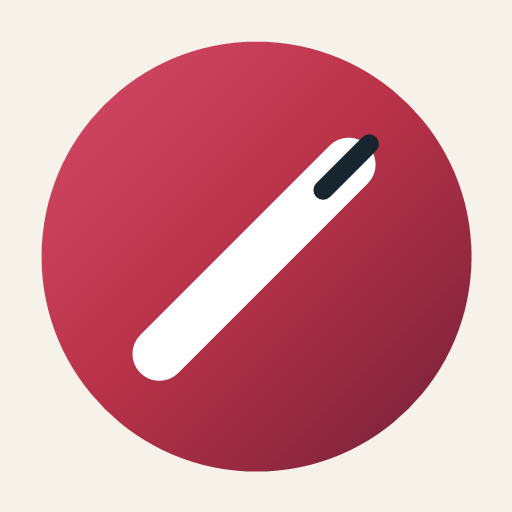
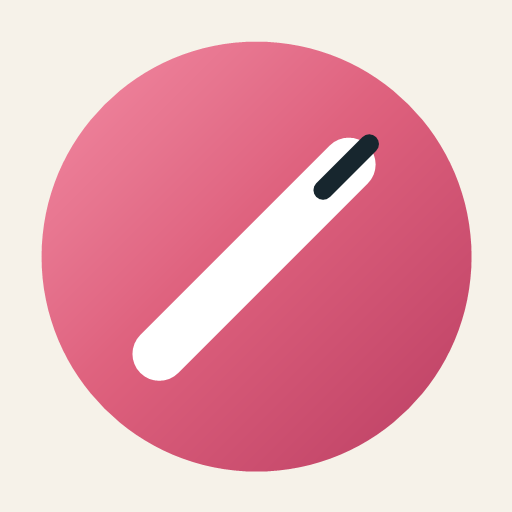
Add files via upload

diff --git a/app.css b/app.css
@@ -1,7 +1,7 @@
 :root{--ink:#17262e;--coral:#e8453c;--cream:#f6f2e9;--line:#d7dcd9;--muted:#6f7d82}*{box-sizing:border-box}html,body{margin:0;min-height:100%;font-family:Arial,sans-serif;color:var(--ink);background:var(--cream)}button,input{font:inherit}button{border:0;border-radius:10px;font-weight:700;color:inherit;cursor:pointer}header{height:72px;padding:0 24px;background:#fffdf8;border-bottom:1px solid var(--line);display:flex;align-items:center;justify-content:space-between}.brand{display:flex;align-items:center;gap:11px}.brand>b{width:40px;height:40px;border-radius:12px 12px 12px 4px;background:var(--coral);color:#fff;display:grid;place-items:center;font-size:20px}.brand span{display:flex;flex-direction:column}.brand small,.filebar small{display:block;color:var(--muted);margin-top:3px;font-size:11px}.head-actions,.file-actions{display:flex;gap:8px;align-items:center}.primary{background:var(--coral);color:#fff;padding:12px 16px}.install{background:#e4f2e9;color:#247652;padding:11px 14px}main{display:grid;grid-template-columns:210px 1fr;height:calc(100vh - 72px)}aside{background:#fffdf8;border-right:1px solid var(--line);padding:16px 12px;overflow:auto;display:flex;flex-direction:column;gap:16px}nav{display:grid;grid-template-columns:1fr 1fr;gap:7px}nav button{height:64px;background:#f0eee7;color:#59666b;font-size:10px;display:flex;flex-direction:column;align-items:center;justify-content:center;gap:4px}nav button b{font:24px Georgia}nav button.active{background:#fff0ec;color:var(--coral);outline:1px solid var(--coral)}aside section{border-top:1px solid #e2e5e2;padding-top:13px}aside label{font-size:12px;font-weight:800;display:flex;justify-content:space-between;margin-bottom:8px}aside input{width:100%}#colors{display:flex;gap:6px;flex-wrap:wrap;margin-bottom:8px}#colors button{width:27px;height:27px;border-radius:50%;border:2px solid #fff;box-shadow:0 0 0 1px #bbb}#colors button.selected{box-shadow:0 0 0 2px var(--ink)}#text{border:1px solid #cbd1ce;padding:9px;border-radius:8px;margin-bottom:10px}.history{margin-top:auto;display:grid;grid-template-columns:1fr 1fr;gap:6px}.history button{padding:9px 2px;font-size:10px}article{min-width:0;display:flex;flex-direction:column}.filebar{min-height:62px;background:#fffdf8;border-bottom:1px solid var(--line);padding:8px 16px;display:flex;align-items:center;justify-content:space-between;gap:12px}.file-actions>button,.file-actions span button{padding:9px;background:#f0eee7;font-size:11px}.file-actions .danger{color:#bd3832;background:#fff0ed}.file-actions .dark{background:var(--ink);color:white}.file-actions button:disabled{opacity:.4}#folderNav{display:flex;align-items:center;border:1px solid #ddd;border-radius:9px;overflow:hidden}#folderNav i{font-size:10px;color:var(--muted);font-style:normal}.stage{flex:1;overflow:auto;display:grid;place-items:center;padding:24px;background-color:#e9e6de;background-image:radial-gradient(#d3cfc5 1px,transparent 1px);background-size:18px 18px}#empty{text-align:center;max-width:620px}.paper{width:88px;height:110px;background:white;border:1px solid #ccc;border-radius:6px;margin:0 auto 20px;display:grid;place-items:center;color:var(--coral);font-size:30px;box-shadow:8px 8px 0 #f8f5ee}h1{font:700 clamp(28px,4vw,42px) Georgia;margin:0 0 12px}#empty>p{color:var(--muted);line-height:1.5}.sources{display:flex;justify-content:center;gap:8px;flex-wrap:wrap}.sources button{background:#fff;border:1px solid #cbd1cf;padding:11px;min-width:140px;display:flex;align-items:center;gap:9px;text-align:left}.sources button>b{width:30px;height:30px;background:#fff0ec;color:var(--coral);border-radius:8px;display:grid;place-items:center}.sources span{display:flex;flex-direction:column;font-size:11px}.sources small{font-weight:400;color:var(--muted);font-size:9px;margin-top:3px}.chips{margin-top:20px;display:flex;justify-content:center;gap:8px}.chips span{background:#ffffffaa;border:1px solid #d1cec6;border-radius:99px;padding:7px 10px;font-size:10px}canvas{display:none;max-width:100%;max-height:calc(100vh - 180px);background:white;box-shadow:0 12px 40px #28303126;touch-action:none}canvas.show{display:block}dialog{border:0;border-radius:18px;padding:28px;max-width:420px;box-shadow:0 20px 70px #0004}dialog::backdrop{background:#17262eaa}.close{float:right;background:transparent;font-size:24px}
 @media(max-width:760px){header{height:62px;padding:0 10px}.brand small{display:none}.head-actions button{padding:9px;font-size:11px}main{height:calc(100vh - 62px);grid-template-columns:1fr;grid-template-rows:auto 1fr}aside{padding:8px;flex-direction:row;align-items:center;overflow-x:auto;border-right:0;border-bottom:1px solid var(--line)}nav{display:flex;flex:none}nav button{width:56px;height:52px}aside section{border-top:0;border-left:1px solid #ddd;padding:0 0 0 9px;min-width:130px}.history{display:flex;margin:0}.history button{width:54px;height:42px;font-size:0}.history button:first-letter{font-size:20px}.filebar{padding:6px 8px}.file-actions{gap:4px}.file-actions>button{font-size:0;width:34px;height:34px;padding:0}.file-actions>button:first-letter{font-size:16px}.stage{padding:12px}.sources button{min-width:140px}canvas{max-height:calc(100vh - 225px)}}
 
-:root{--coral:#b83248;--coral-gradient:linear-gradient(135deg,#d64a68 0%,#b83248 48%,#722039 100%)}
+:root{--coral:#dd5f7c;--coral-gradient:linear-gradient(135deg,#f28ca3 0%,#dd5f7c 48%,#ba3e63 100%)}
 .brand>b,.primary{background:var(--coral-gradient)}
 .sources button>b{background:var(--coral-gradient);color:#fff}
 .primary:hover,.sources button:hover>b{filter:brightness(.92)}

diff --git a/index.html b/index.html
@@ -3,7 +3,7 @@
 <head>
   <meta charset="utf-8">
   <meta name="viewport" content="width=device-width,initial-scale=1,viewport-fit=cover">
-  <meta name="theme-color" content="#b83248">
+  <meta name="theme-color" content="#dd5f7c">
   <meta name="apple-mobile-web-app-capable" content="yes">
   <meta name="apple-mobile-web-app-title" content="Fotos">
   <title>Fotos — Anota imágenes y PDF</title>
@@ -25,7 +25,7 @@
         <button data-tool="text"><b>T</b>Texto</button>
         <button data-tool="eraser"><b>⌫</b>Borrar</button>
       </nav>
-      <section><label>Color</label><div id="colors"></div><input id="customColor" type="color" value="#b83248"></section>
+      <section><label>Color</label><div id="colors"></div><input id="customColor" type="color" value="#dd5f7c"></section>
       <section><label>Grosor <output id="sizeOut">6</output></label><input id="size" type="range" min="2" max="30" value="6"></section>
       <section id="textBox" hidden><label>Texto</label><input id="text" placeholder="Escribe y toca el documento"><label>Tamaño <output id="fontOut">36</output></label><input id="fontSize" type="range" min="16" max="96" value="36"></section>
       <div class="history"><button id="undo">↶ Deshacer</button><button id="redo">↷ Rehacer</button></div>

diff --git a/app.js b/app.js
@@ -1,8 +1,8 @@
 import * as pdfjs from "./vendor/pdf.min.mjs";
 pdfjs.GlobalWorkerOptions.workerSrc="./vendor/pdf.worker.min.mjs";
 const $=id=>document.getElementById(id), canvas=$("canvas"),ctx=canvas.getContext("2d");
-const colors=["#17262e","#b83248","#f39a22","#e6cc35","#2da66f","#2687d7","#7555c7","#ffffff"];
-let tool="pen",color="#b83248",size=6,fontSize=36,hasDoc=false,start=null,drawing=false,base=null,history=[],hi=-1,folderFiles=[],folderIndex=0,installPrompt=null;
+const colors=["#17262e","#dd5f7c","#f39a22","#e6cc35","#2da66f","#2687d7","#7555c7","#ffffff"];
+let tool="pen",color="#dd5f7c",size=6,fontSize=36,hasDoc=false,start=null,drawing=false,base=null,history=[],hi=-1,folderFiles=[],folderIndex=0,installPrompt=null;
 function save(){history=history.slice(0,hi+1);history.push(ctx.getImageData(0,0,canvas.width,canvas.height));if(history.length>25)history.shift();hi=history.length-1}
 function restore(i){if(history[i]){ctx.putImageData(history[i],0,0);hi=i}}
 function point(e){let r=canvas.getBoundingClientRect();return{x:(e.clientX-r.left)*canvas.width/r.width,y:(e.clientY-r.top)*canvas.height/r.height}}

diff --git a/sw.js b/sw.js
@@ -1,4 +1,4 @@
-const C="fotos-github-v2",A=["./","./index.html","./app.css","./app.js","./manifest.webmanifest","./icon-192.png","./icon-512.png","./vendor/pdf.min.mjs","./vendor/pdf.worker.min.mjs","./vendor/jspdf.umd.min.js"];
+const C="fotos-github-v3",A=["./","./index.html","./app.css","./app.js","./manifest.webmanifest","./icon-192.png","./icon-512.png","./vendor/pdf.min.mjs","./vendor/pdf.worker.min.mjs","./vendor/jspdf.umd.min.js"];
 self.addEventListener("install",e=>{
   e.waitUntil(caches.open(C).then(c=>c.addAll(A)));
   self.skipWaiting();
